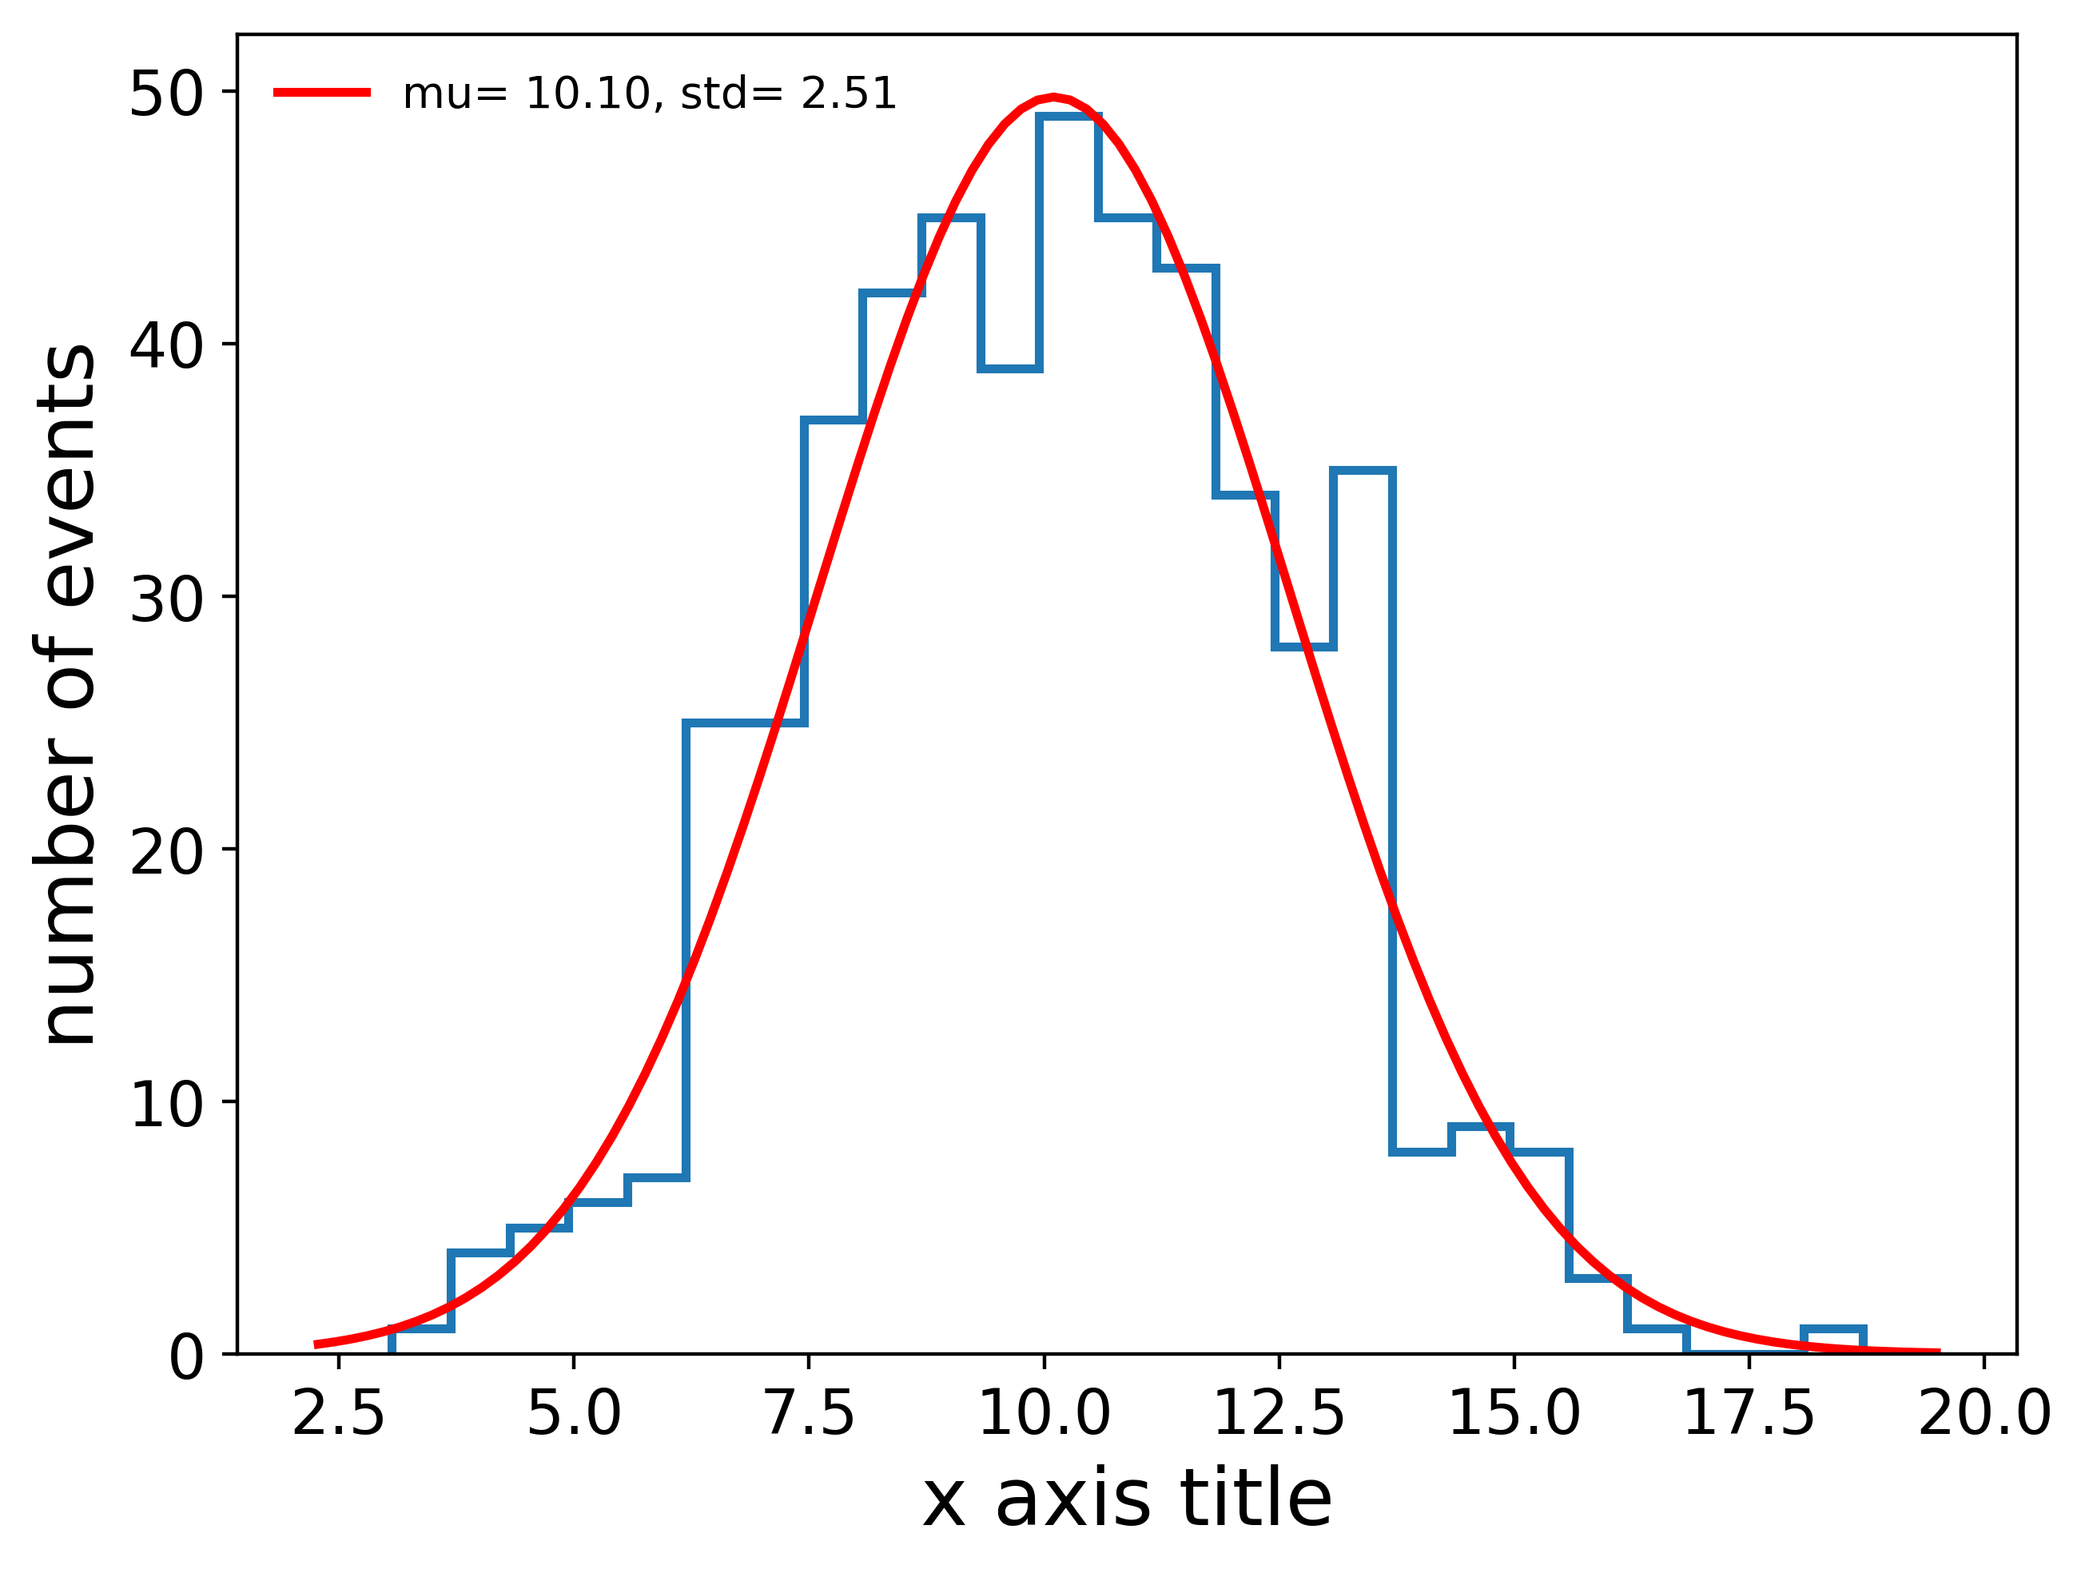
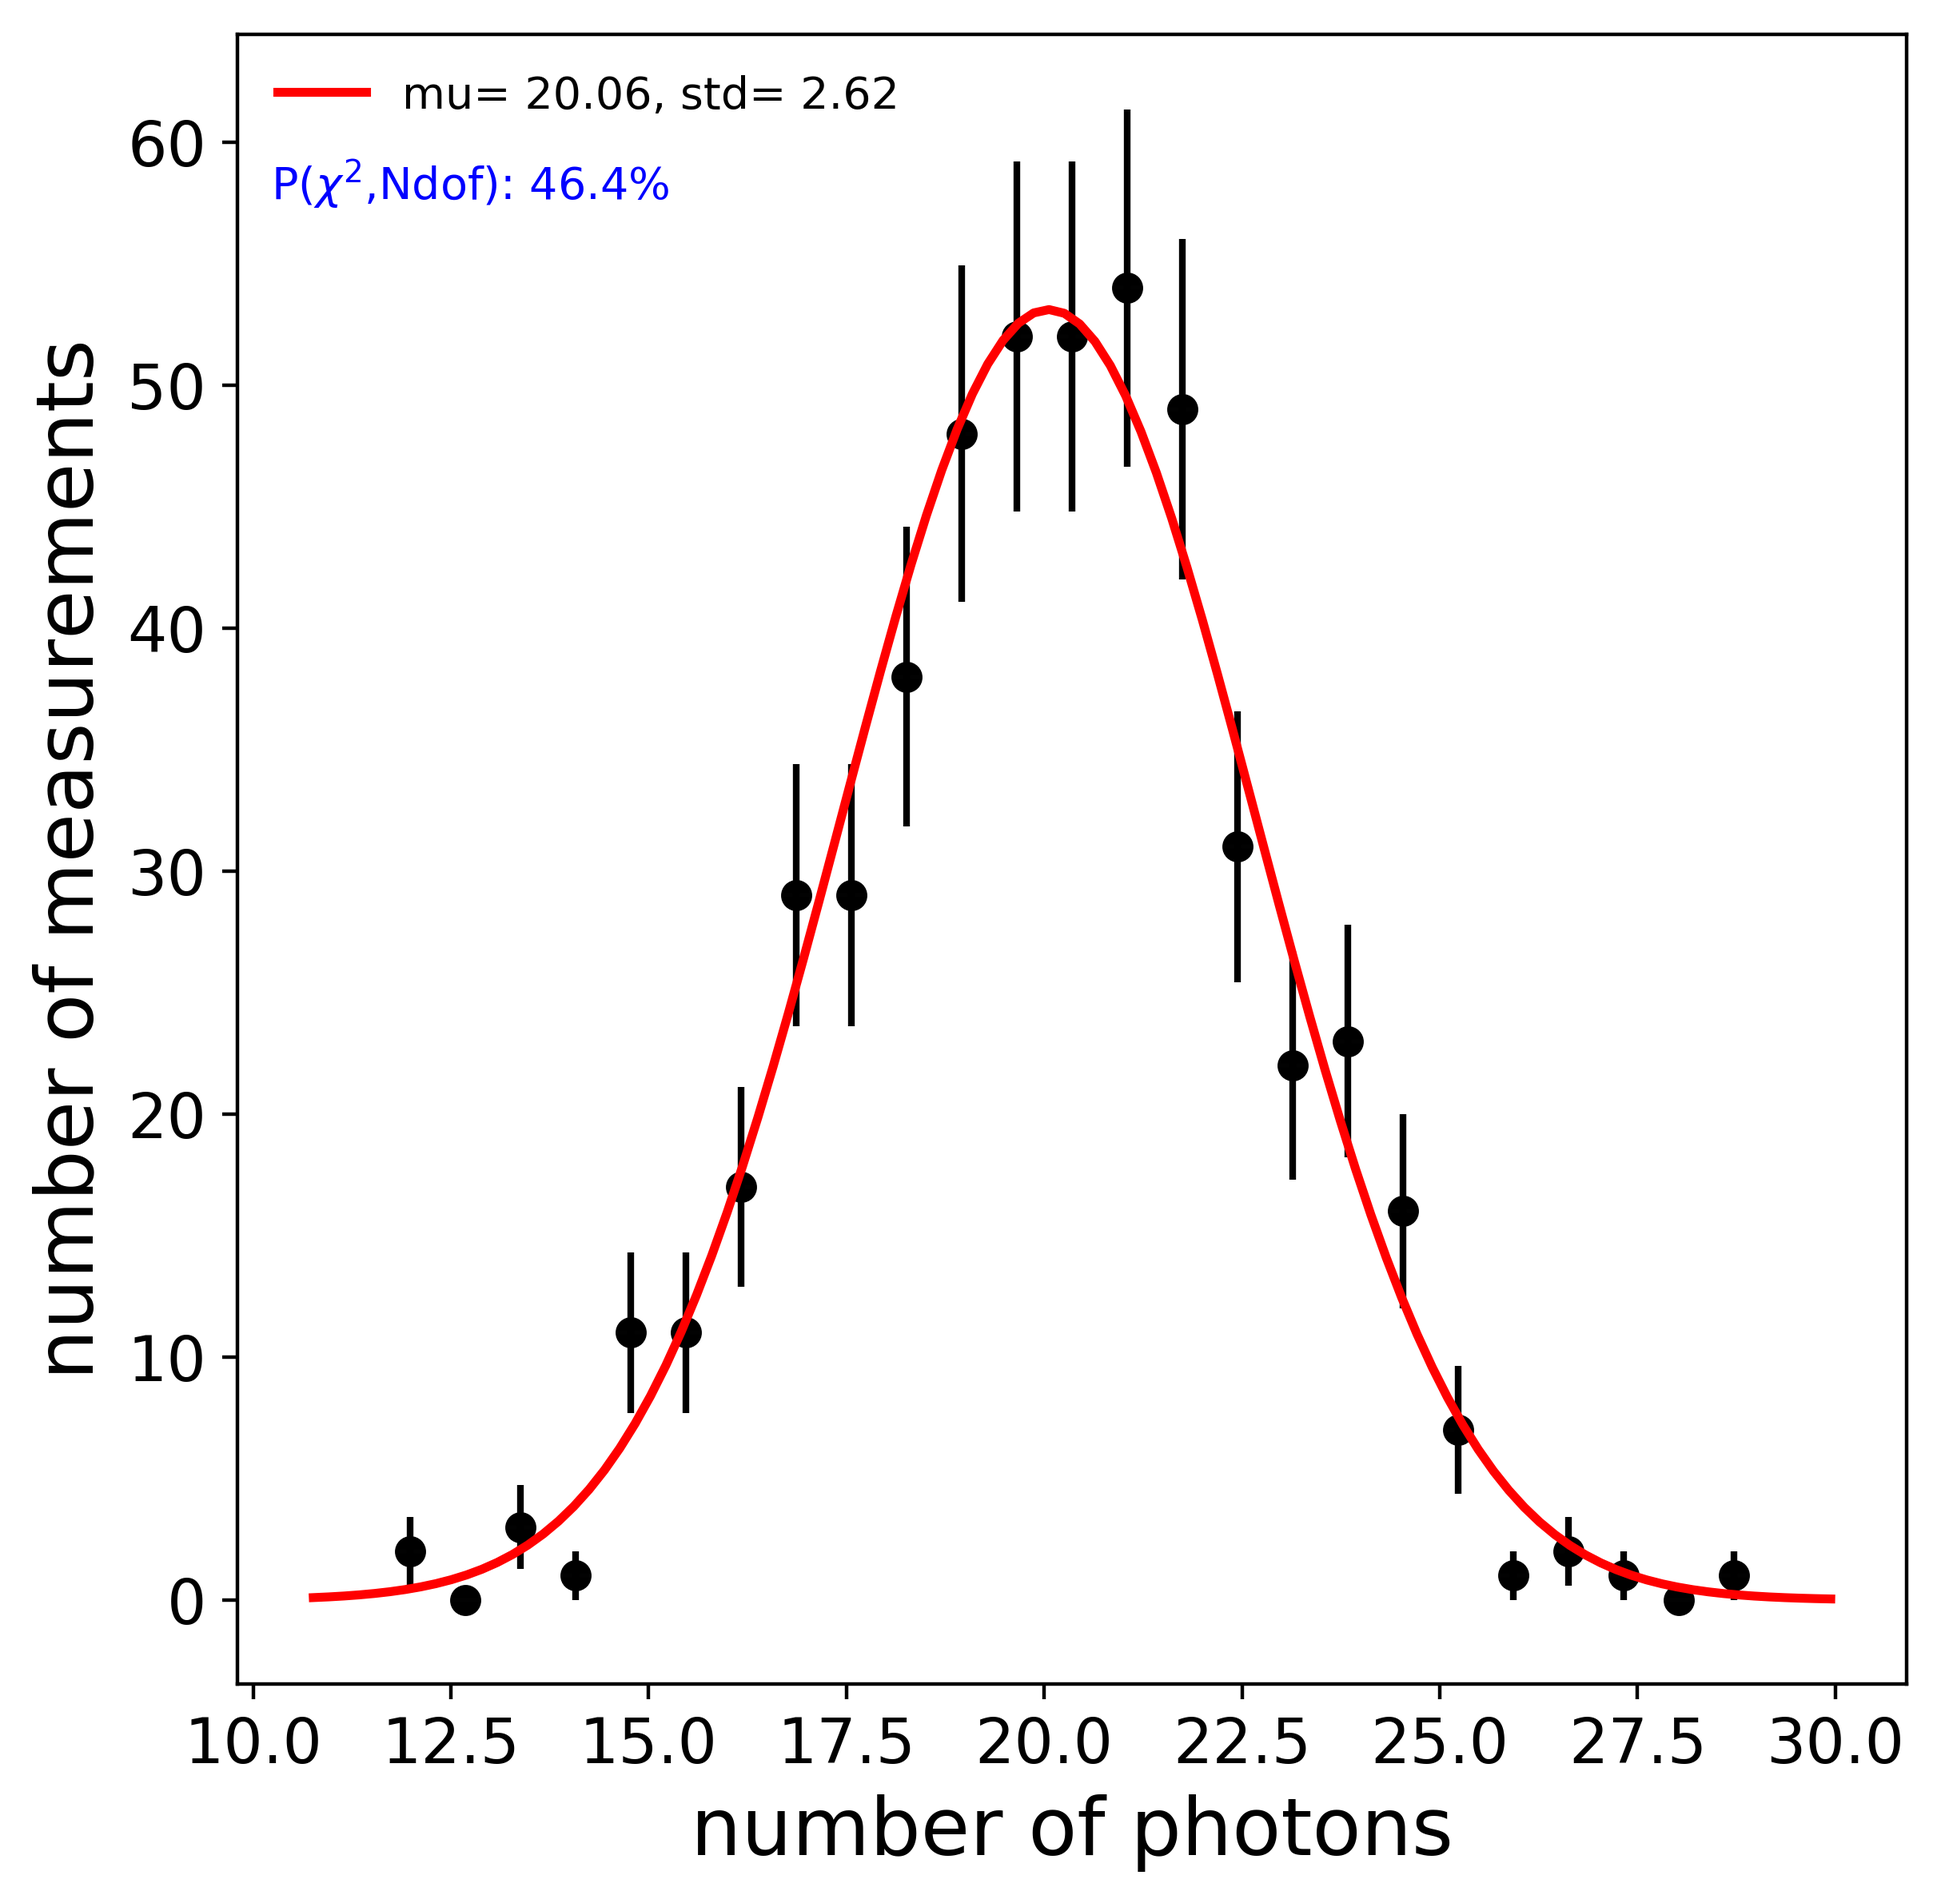
Add chi2, ndof and probability.

Changed region(s): [[0.0, 0.0, 0.9885, 0.9299], [0.3707, 0.8369, 0.7722, 0.9919]]

diff --git a/Introduction/python/fit.py b/Introduction/python/fit.py
@@ -6,11 +6,11 @@ import matplotlib as mlp
 
 from scipy.stats import norm
 from scipy.optimize import curve_fit
+from scipy import stats
 
 from optparse import OptionParser
 
 g_norm = 1.0/np.sqrt(2*np.pi)
-
 
 #---------------------------------------------------------------------------------------------------
 # define and get all command line arguments
@@ -19,6 +19,15 @@ parser.add_option("-n", "--name",  dest="name",  default='fit',            help=
 parser.add_option("-x", "--xtitle",dest="xtitle",default='Default x title',help="x axis title")
 parser.add_option("-y", "--ytitle",dest="ytitle",default='Default y title',help="y axis title")
 (options, args) = parser.parse_args()
+
+def uncertainties(ys,patch=False):
+    # find uncertainties (simply sqrt of entries)
+    # - for fitting a 0 uncertainty does not work so we set it to 1000 to avoid chi2 contribution
+    sigmas = np.sqrt(ys)
+    for i in range(0,len(sigmas)): # if there are zero entries we get division by zero!
+        if sigmas[i] == 0 and patch:
+            sigmas[i] = 1000
+    return sigmas
 
 def straight_mean_var(data):
     # mean and variance from the raw data
@@ -31,7 +40,6 @@ def straight_mean_var(data):
     print " Width:    %f"%(np.sqrt(np.var(data)))
 
     return mean_raw,var_raw
-
 
 def gaussian(x, amplitude, mean, width):
     # Gaussian function, including a variable normalization, ready for your histogram fit
@@ -60,32 +68,53 @@ def fit_gaussian(xs,ys):
     y_array = np.array(ys)
 
     # find uncertainties (simply sqrt of entries)
-    sigma = np.sqrt(y_array)
-    for i in range(0,len(sigma)): # if there are zero entries we get division by zero!
-        if sigma[i] == 0:
-            sigma[i] = 100
-            #print " fix zero i:%d"%(i) 
+    sigmas = uncertainties(y_array,True) # patch uncertainties of 0
     
     # fit with uncertainties
     print "\n== Fit including uncertainties"
     pname = ['Amplitude', 'Mean', 'Width']
-    par, pcov = curve_fit(gaussian, x_array, y_array, p0=(500, 10, 2), sigma=sigma)
+    par, pcov = curve_fit(gaussian, x_array, y_array, p0=(500, 10, 2), sigma=sigmas)
     for i in range(0,3):
         print " P(%9s,%d): %f +- %f"%(pname[i],i,par[i],np.sqrt(pcov[i][i]))
 
-    return par, pcov
+    chi2,ndof = chi2_ndof(gaussian, par, x_array, y_array, sigmas)
+    prob = probability(chi2,ndof)
+    print(" Chi2: %f,  Ndof: %d"%(chi2,ndof))
+    print(" Prob: %f"%(prob))
+        
+    return par, pcov, prob
+
+def chi2_ndof(gaussian, par, x_array, y_array, sigma):
+    chi2 = 0.
+    ndof = len(par) * (-1.)
+    for x,y,sig in zip(x_array,y_array,sigma):
+        prediction = gaussian(x,par[0],par[1],par[2])
+        #print(" x: %f,  y: %f,  sig: %f, -- prediction: %f"%(x,y,sig,prediction))
+        if sig>0: # make sure we do not divide by zero
+            dChi2 = (y-prediction)*(y-prediction)/sig/sig
+            chi2 += dChi2
+            ndof += 1
+            #print("dChi2: %f"%(dChi2))
+        else:
+            print("WARNING - sigma=0: x: %f,  y: %f,  sig: %f, -- prediction: %f"%(x,y,sig,prediction))
+    return chi2, ndof
+
+def probability(chi2,ndof):
+    return (1.0 - stats.chi2.cdf(chi2,ndof))
 
 n_events = 500
 
 # generate some data for this demonstration.
-data = norm.rvs(10.0, 2.5, size=n_events)
+data = norm.rvs(20.0, 2.5, size=n_events)
 
 # calculate variables
 mean_raw,var_raw = straight_mean_var(data)
 
 # define the figure
-plt.figure(options.name)
-ns, bins, patches = plt.hist(data, 25, histtype = 'step', linewidth=2)
+fig = plt.figure(options.name,figsize=(6,6))
+#ns, bins, patches = plt.hist(data, 25, histtype = 'step', linewidth=2)
+ns, bins, patches = plt.hist(data, 25, histtype = 'step',color='w',alpha=.01)
+#ns, bins, patches = plt.hist(data, 25)
 
 # careful bin width matters for integral
 binwidth = bins[1]-bins[0]
@@ -107,9 +136,17 @@ for n,bmin in zip(ns,bins[:-1]):
     xs.append(bmin+0.5*binwidth)
     ys.append(n)
 
+# make a marker plot
+sigmas = uncertainties(ys)
+plt.scatter(xs, ys, label=label,color='black')      # markers
+plt.errorbar(xs,ys,yerr=sigmas,color='black',ls='none')   # error bars
+
 # now fit the data
 fit_gaussian_without(xs,ys)
-fit_gaussian(xs,ys)
+par,pcov,prob = fit_gaussian(xs,ys)
+
+ax = plt.gca()
+plt.text(0.02,0.90,r'P($\chi^2$,Ndof): %4.1f%%'%(prob*100),{'color': 'b'}, transform=ax.transAxes)
 
 # make plot nicer
 plt.xlabel(options.xtitle, fontsize=18)
